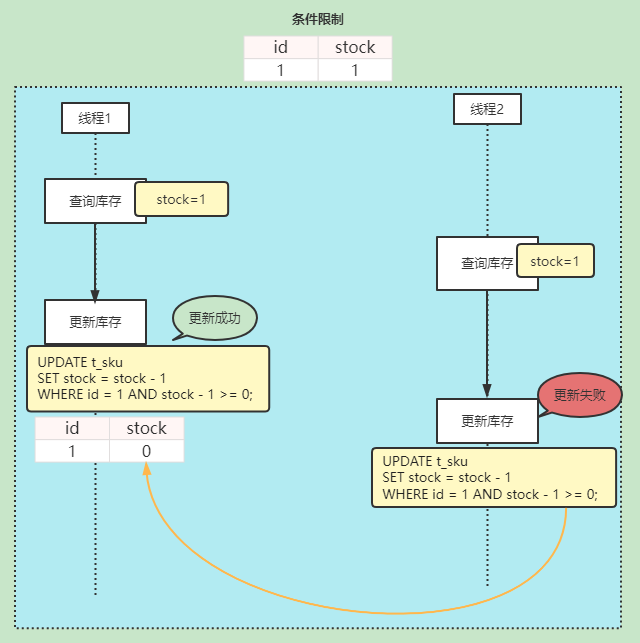
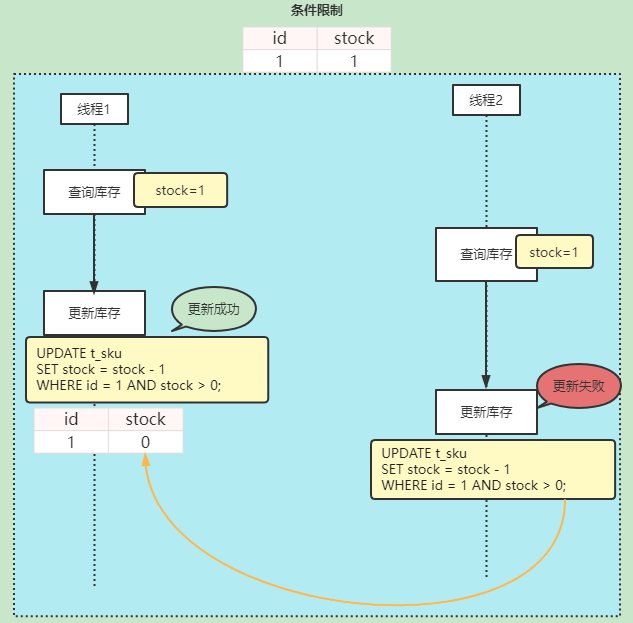
update doc

diff --git a/知识库/数据库/Redis/03-实战/05-秒杀下单.md b/知识库/数据库/Redis/03-实战/05-秒杀下单.md
@@ -11,7 +11,7 @@
 #### 解决 - 加锁
 
 - 悲观锁：操作数据之前就拿到锁，让线程串行执行，`Synchronized`、`Lock`等
-- 乐观锁：更新数据时才判断数据有没有被其他线程修改
+- 乐观锁：更新数据时判断数据有没有被其它线程修改
 
 ##### 乐观锁
 
@@ -25,10 +25,16 @@
 
 ###### 乐观锁 - `CAS`
 
+> 库存`stock`可作为特殊的版本号处理
+
 ![redis-秒杀下单-库存超卖-乐观锁-CAS.png](images/redis-秒杀下单-库存超卖-乐观锁-CAS.png)
+
+乐观锁问题：总库存为10，当同时有多个人下单，A下单库存-1，B和C等人下单时判断现有库存已变化，即都无法正常下单。
+
+因此可以通过下面的`stock > 0`去解决。
 
 ###### 乐观锁 - `条件限制`
 
-> tips：`stock - 1 >= 0` 这个情景适合不用版本号，更新时做数据安全校验，适合库存模型，性能更高。
+> tips：`stock > 0` 这个情景适合不用版本号，更新时做数据安全校验，适合库存模型，性能更高。
 
 ![redis-秒杀下单-库存超卖-乐观锁-条件限制.png](images/redis-秒杀下单-库存超卖-乐观锁-条件限制.png)
